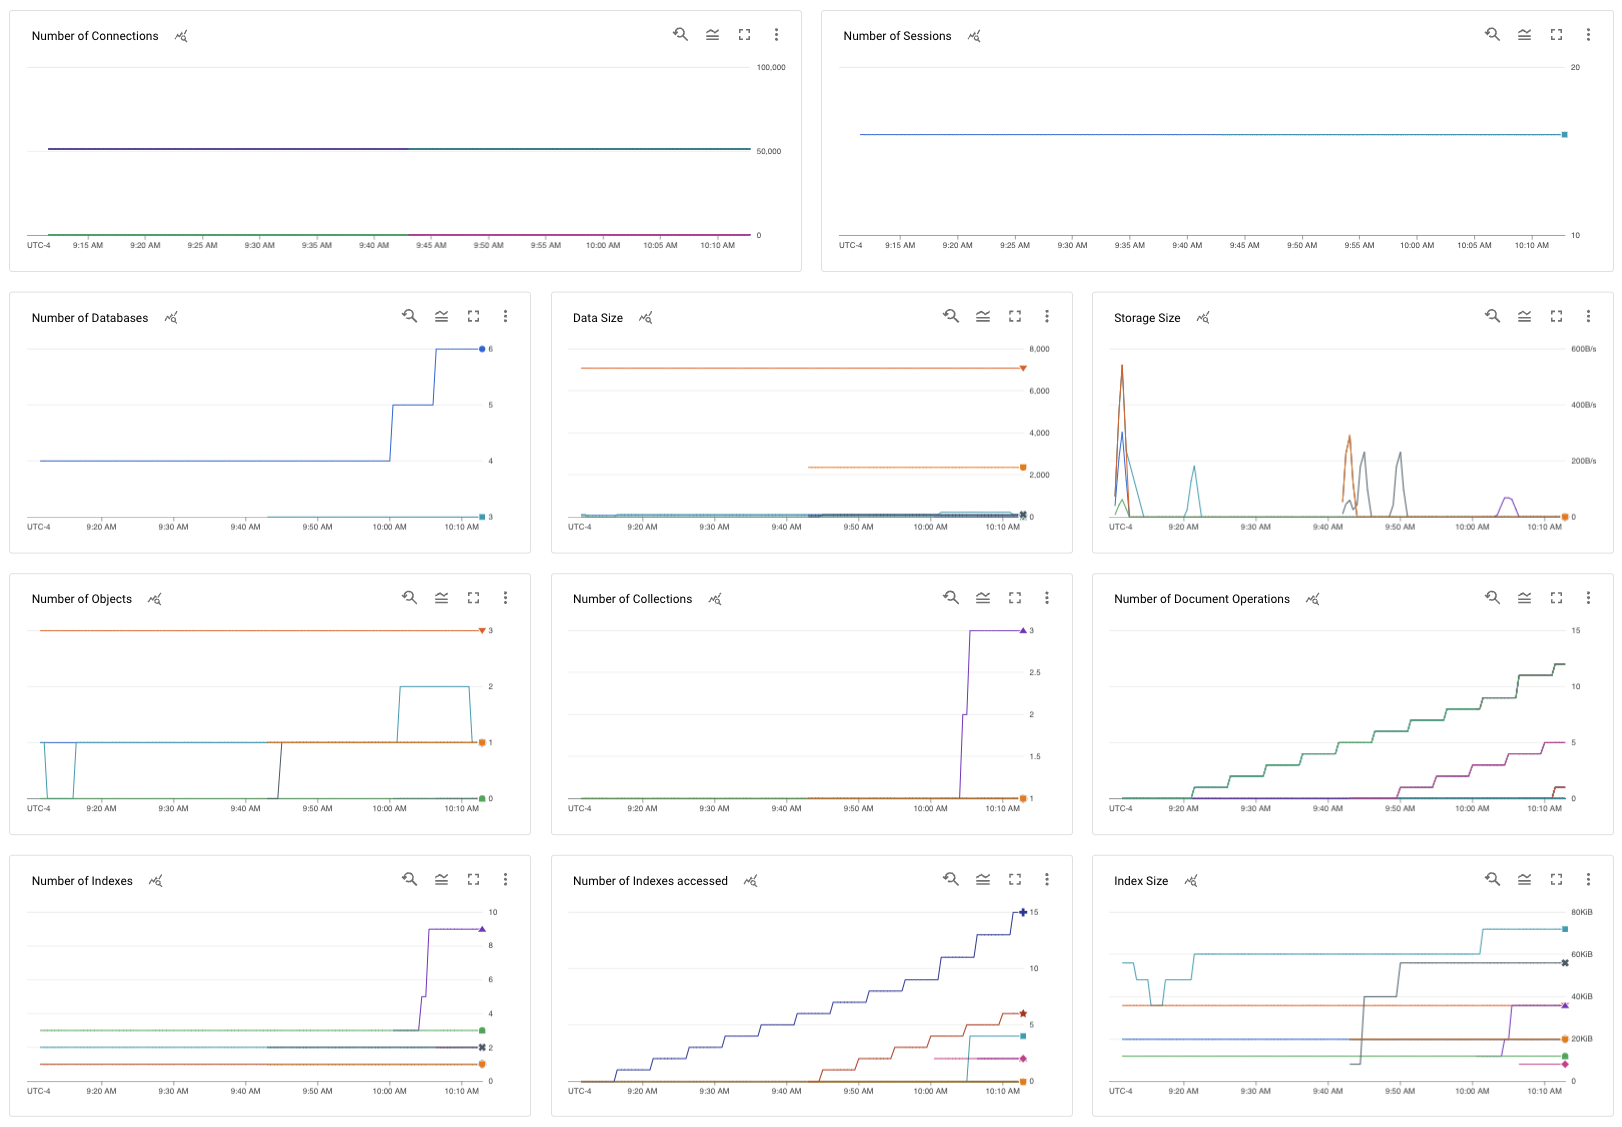
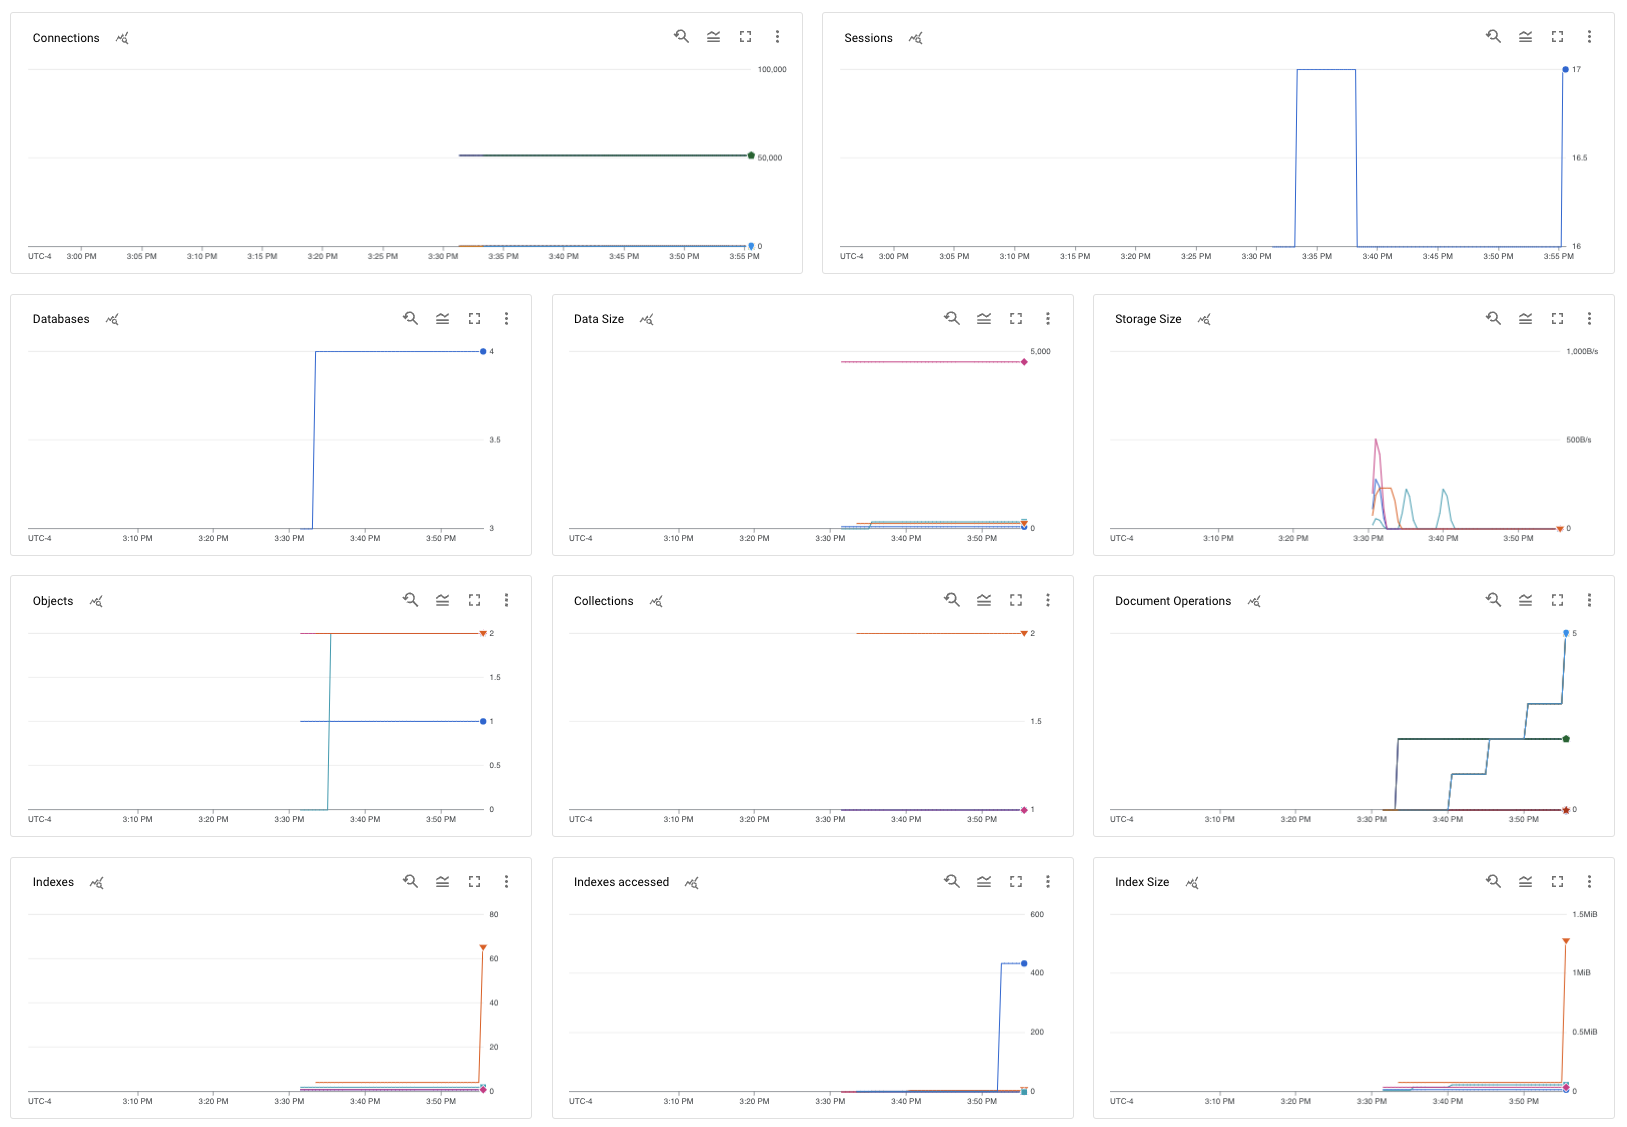
remove 'Number of' from chart titles

diff --git a/dashboards/mongodb/README.md b/dashboards/mongodb/README.md
@@ -2,12 +2,12 @@
 
 #### Notes
 
-- The deprecated dashboard listed [here](https://github.com/GoogleCloudPlatform/monitoring-dashboard-samples/tree/master/dashboards/mongodb/deprecated) exists as an alternative for people who deployed their mongo instance within GCE, however the more external installation seems the more prevalent, so that is the default. 
+- The deprecated dashboard listed [here](https://github.com/GoogleCloudPlatform/monitoring-dashboard-samples/tree/master/dashboards/mongodb/deprecated) exists as an alternative for people who deployed their mongo instance within GCE, however the more external installation seems the more prevalent, so that is the default.
 
 |MongoDB Overview|
 |:------------------|
 |Filename: [mongodb-gce-overview.json](mongodb-gce-overview.json)|
-|This dashboard has charts displaying `Number of Connections`, `Number of Sessions`, `Number of Databases`, `Data Size`, `Storage Size`, `Number of Objects`, `Number of Collections`, `Number of Document Operations`, `Number of Indexes`, `Number of Indexes accessed`, `Index Size`, `Number of requests`, `Received Bytes`, `Transmitted Bytes`, `Operations Rate Avg.`, `Operations Duration`, `Memory Usage`, `Cache Hits / Misses`, `Global Lock Hold Time`, `Number of Cursors`, and `Cursor Duration` from MongoDB as well as charts of infrastructure related metrics for the running MongoDB VMs: `CPU % Top 5 VMs`, `Memory % Top 5 VMs`, and `Hosts by Region`. There is also a log panel containing MongoDB logs.|
+|This dashboard has charts displaying `Connections`, `Sessions`, `Databases`, `Data Size`, `Storage Size`, `Objects`, `Collections`, `Document Operations`, `Indexes`, `Indexes accessed`, `Index Size`, `Requests`, `Received Bytes`, `Transmitted Bytes`, `Operations Rate Avg.`, `Operations Duration`, `Memory Usage`, `Cache Hits / Misses`, `Global Lock Hold Time`, `Cursors`, and `Cursor Duration` from MongoDB as well as charts of infrastructure related metrics for the running MongoDB VMs: `CPU % Top 5 VMs`, `Memory % Top 5 VMs`, and `Hosts by Region`. There is also a log panel containing MongoDB logs.|
 
 |MongoDB Prometheus|
 |:------------------|
